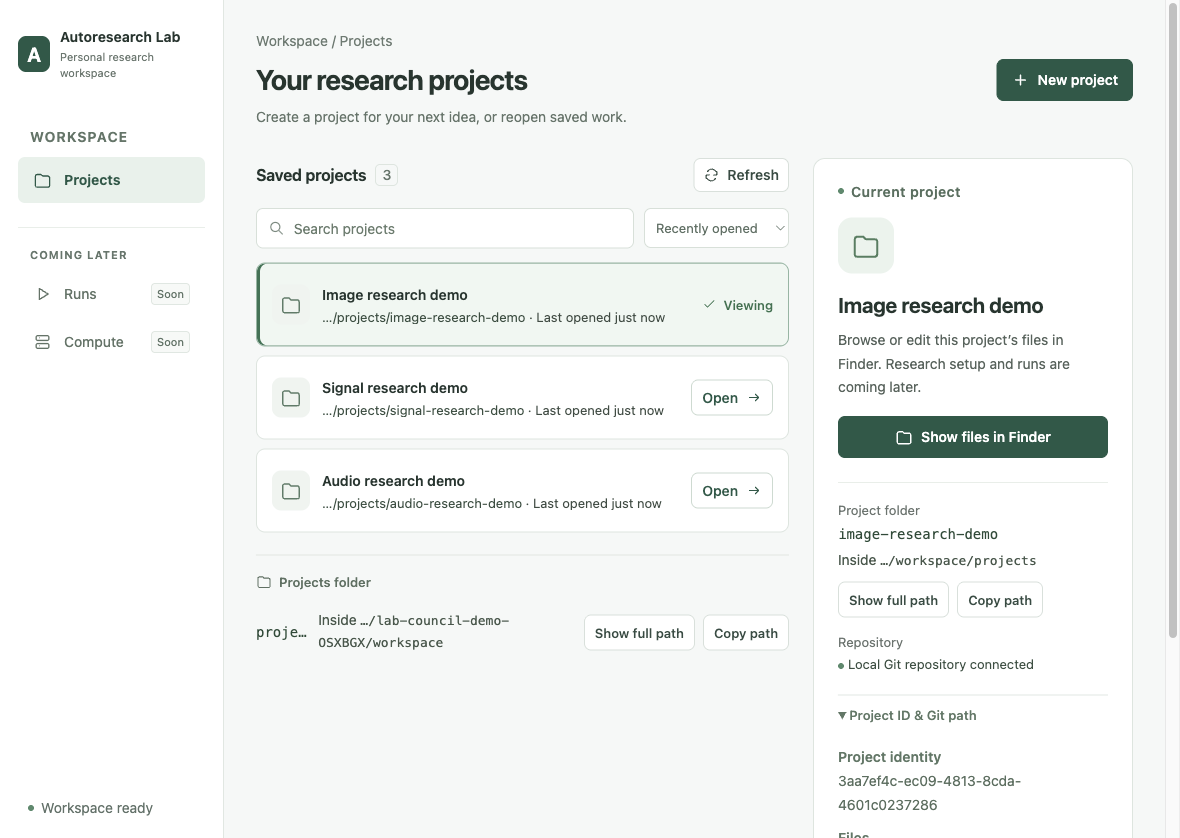
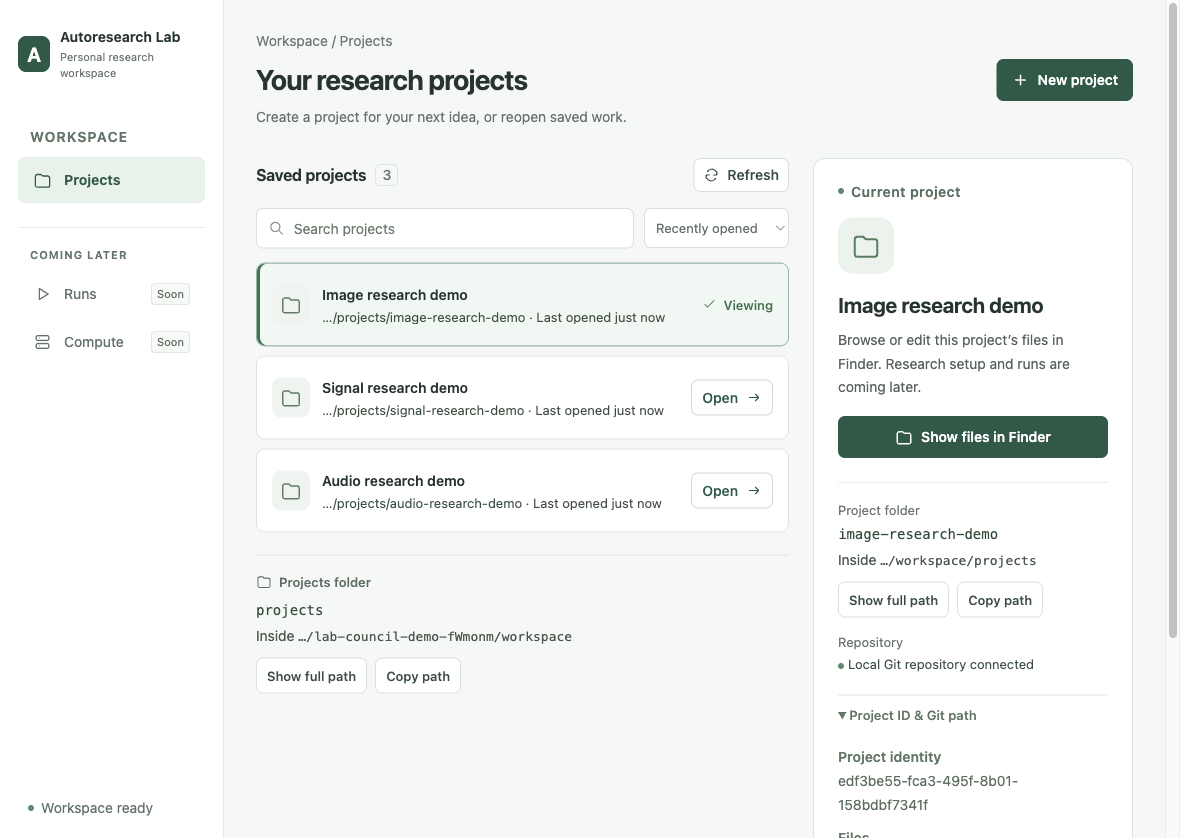
Correct shared location layout before council grading

diff --git a/src/renderer/style.css b/src/renderer/style.css
@@ -105,7 +105,7 @@ dd { font-size: 14px; line-height: 1.7; overflow-wrap: anywhere; margin: 4px 0; 
 @media (max-width: 880px) { .workspace-sidebar { width: 170px; padding: 24px 12px; } .brand { white-space: normal; } .brand small { display: none; } main { padding: 24px 18px; } .project-layout { grid-template-columns: 1fr; } .create-panel, .detail-panel { grid-row: 1; } .page-header { gap: 12px; align-items: flex-start; } h1 { font-size: 24px; } .page-header > .primary { padding: 8px; font-size: 14px; } }
 
 .workspace-location { margin-top: 22px; padding-top: 16px; border-top: 1px solid #e0e7e2; color: #5c7162; }
-.workspace-location > div { display: flex; align-items: center; gap: 7px; }
+.workspace-location > .workspace-location-heading { display: flex; align-items: center; gap: 7px; }
 .workspace-location strong { font-size: 14px; font-weight: 550; }
 .workspace-location button { margin-left: auto; padding: 4px 0; }
 .workspace-location p { margin: 7px 0 0; font-size: 14px; line-height: 1.7; overflow-wrap: anywhere; user-select: text; }

diff --git a/src/renderer/index.tsx b/src/renderer/index.tsx
@@ -47,7 +47,7 @@ function readRecency(): Record<string, number> {
   } catch { return {}; }
 }
 function openedLabel(time?: number) {
-  if (!time) return 'Not opened on this device';
+  if (!time) return 'No recent activity recorded';
   const elapsed = Date.now() - time;
   if (elapsed < 60_000) return 'Last opened just now';
   if (elapsed < 3_600_000) return `Last opened ${Math.floor(elapsed / 60_000)} min ago`;

diff --git a/docs/egm/council-ui/round-07/capture-correction.md b/docs/egm/council-ui/round-07/capture-correction.md
@@ -1,0 +1,5 @@
+# Pre-review capture correction
+
+Parent visual inspection found an inherited flex selector affecting the common-folder location component. The selector was narrowed, the full build and packaged smoke passed again, and the screenshots were regenerated before any Round 7 delegate was started. Initial captures and hashes are preserved with the -initial suffix. The prompt's create-list.png and open.png paths identify the corrected images actually submitted for grading.
+
+The missing-recency fallback now says No recent activity recorded, avoiding a claim about device history when the disposable UI cache is absent.
